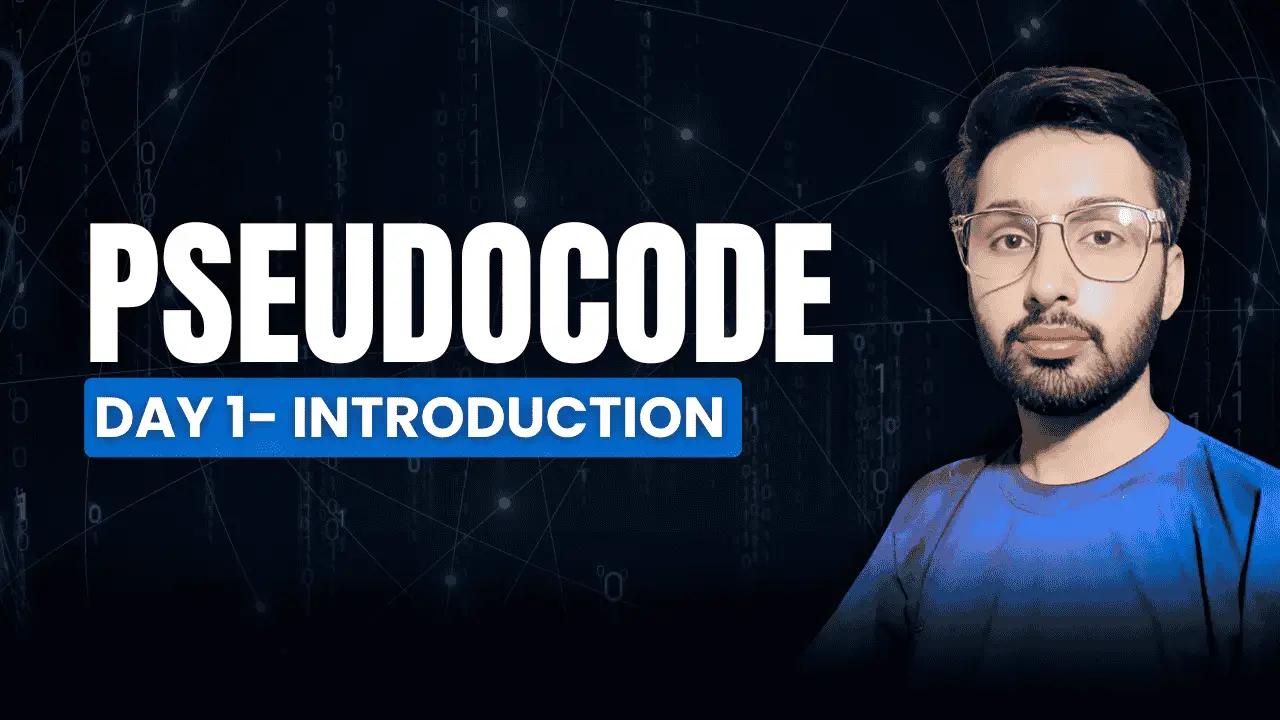
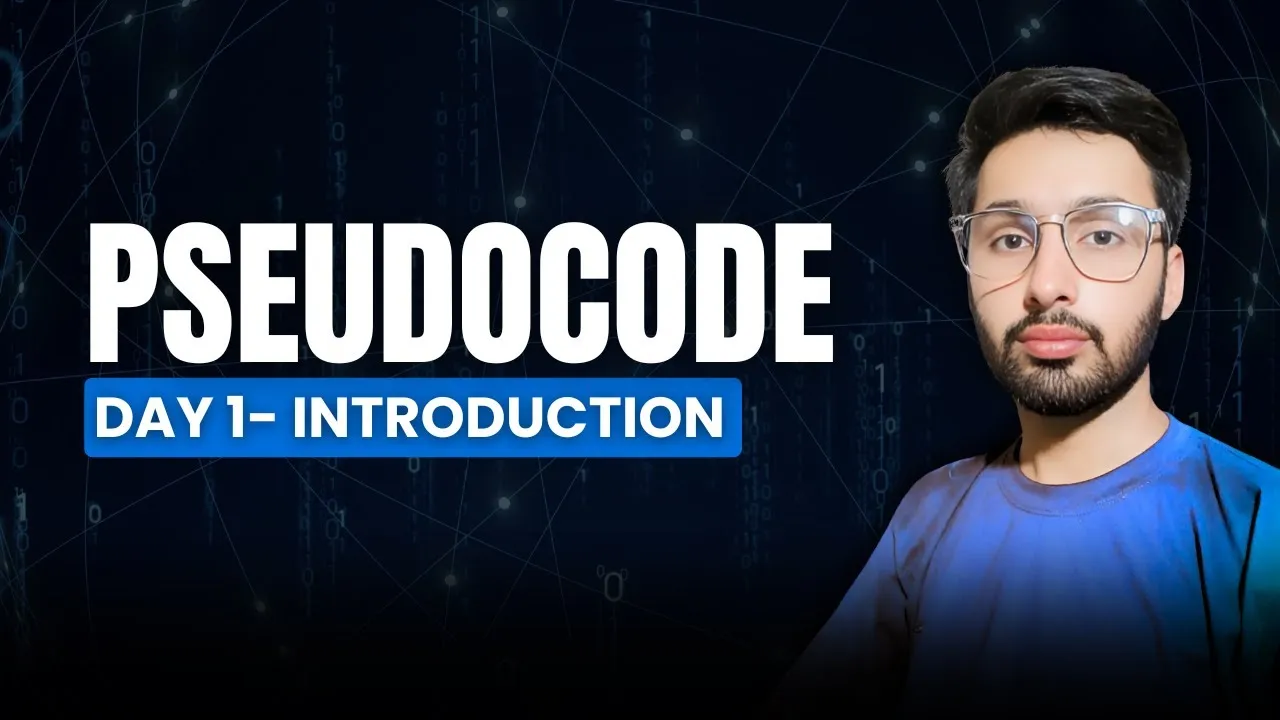
Updated Courses

diff --git a/index.html b/index.html
@@ -103,7 +103,7 @@
             <p>Transforming ideas into flawless code, one pixel-perfect website at a time.</p>
             <a href="#connect" class="button">See My Work <i class="bi bi-arrow-right"></i></a>
         </div>
-        <img src="images/1.png" alt="Moeez Ahmad - Website Developer">
+        <img src="images/1.webp" alt="Moeez Ahmad - Website Developer">
         <div class="circle"></div>
     </header>
 
@@ -183,6 +183,10 @@
                     src="images/Courses/c2.webp" alt="Moeez Ahmad - Website Developer"></a>
             <a href="https://www.youtube.com/playlist?list=PL9BaL-erd42l0X0aTAn3t8JcwNRwooDus"><img class="sm"
                     src="images/Courses/c3.webp" alt="Moeez Ahmad - Website Developer"></a>
+            <a href="https://www.youtube.com/playlist?list=PL9BaL-erd42m2q9WzfuvokA7h-RZ53RUw"><img class="sm"
+                    src="images/Courses/c4.webp" alt="Moeez Ahmad - Website Developer"></a>
+            <a href="https://www.youtube.com/playlist?list=PL9BaL-erd42mIBAkmqqcYLzMEG9EMjakr"><img class="sm"
+                    src="images/Courses/c5.webp" alt="Moeez Ahmad - Website Developer"></a>
         </section>
     </main>
 
